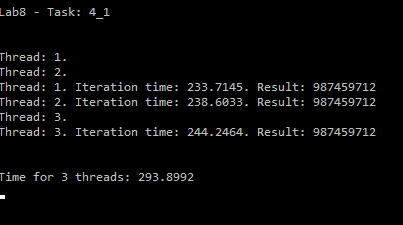
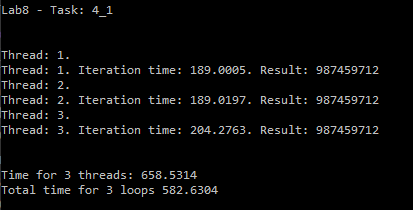
Lab8 done

Changed region(s): [[0.0, 0.2286, 0.9529, 0.6571], [0.0, 0.7429, 0.536, 0.9429], [0.0, 0.0286, 0.268, 0.0857]]

diff --git a/labs/lab8.html b/labs/lab8.html
@@ -102,8 +102,9 @@
 
         <div style="display: none; text-align: center" id="chapter3_2">
             <h1>Завдання 4_1</h1>
-            <img height="680" width="900" src="Screenshots/Lab8_4_1.png">
-            <img height="160" width="400" src="Screenshots/Lab8result_4_1.png">
+            <img height="600" width="800" src="Screenshots/Lab8_4_1.png">
+            <img height="500" width="800" src="Screenshots/Lab8_4_1(1).png">
+            <img height="200" width="400" src="Screenshots/Lab8result_4_1.png">
         </div>
 
         <div style="display: none; text-align: center" id="chapter3_3">
@@ -141,8 +142,9 @@
             <h1>Висновки</h1>
             <p>Основною метою лабораторної роботи було вивчення та реалізація роботи з потоками,
                 мьютексами та семафорами. Виконано завдання 4_1, 4_2, 4_3 та 4_4 та дотримано умови цих завдань.
-                Робота всіх трьох потоків у завданні 4_1 була завершена за 293 мілісекунди. Потоки виконувалися паралельно
-                Найдовше виконувався потік №3 244 мілісекунди.</p>
+                Робота всіх трьох потоків у завданні 4_1 була завершена за 658.5314 мілісекунди, що є більшим, ніж
+                простий запуск трьох циклів підряд, які і оброблялися в потоці. Цикли відпрацювали за 582.6304 мілісекунди.
+                Найдовше виконувався потік №3 204 мілісекунди. Середнє виконання потока приблизно 194 мілісекунди.</p>
         </div>
     </div>
 </div>
